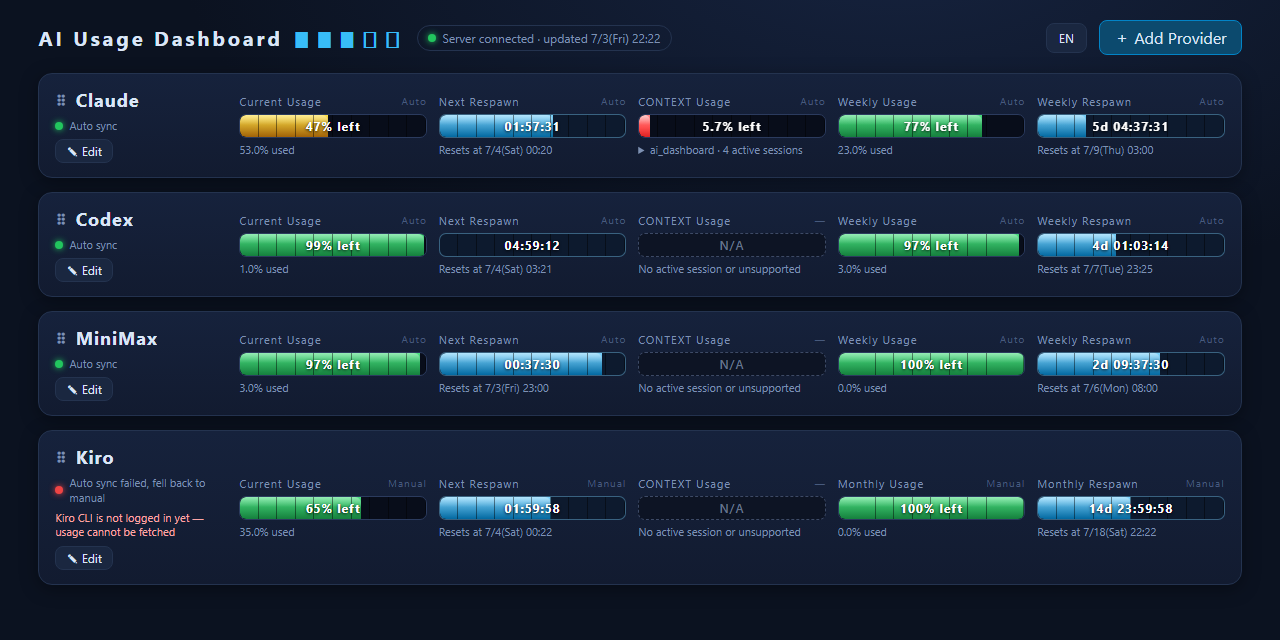
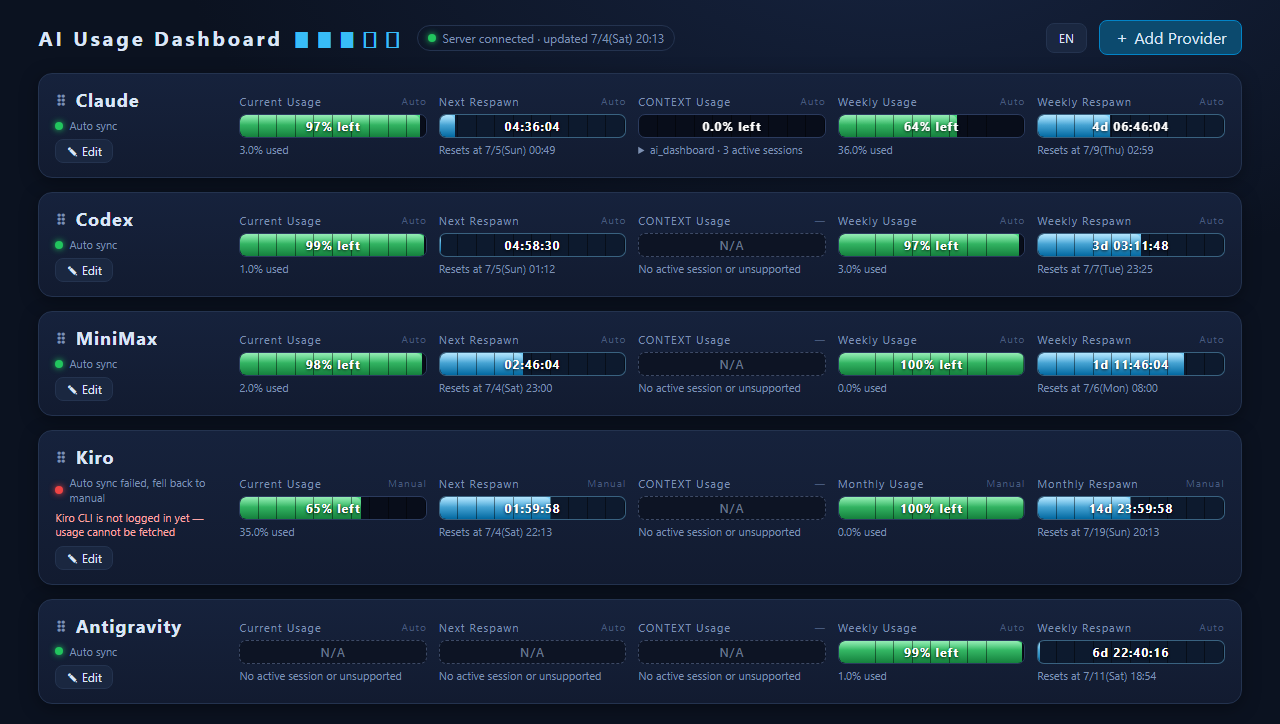
新增Antigravity
借用 Antigravity CLI(agy)自己在本機開的 Connect-RPC 服務取得真實每週配額,
無此服務時列上灰色虛框而非誤導性的手動預設值;更新中英文截圖。

diff --git a/server.js b/server.js
@@ -5,6 +5,7 @@
 // 安全:只綁定 127.0.0.1;token 只在本機使用,絕不傳給前端。
 
 const http = require('http');
+const https = require('https');
 const fs = require('fs');
 const path = require('path');
 const os = require('os');
@@ -36,6 +37,8 @@ const SERR = {
     MINIMAX_UNKNOWN_FORMAT: '已連上但回應格式未知(原始回應已印在伺服器視窗)',
     KIRO_NOT_LOGGED_IN: '尚未使用 Kiro CLI 登入,無法取得',
     KIRO_DETECTED_NOT_IMPLEMENTED: '偵測到 Kiro 憑證,但自動同步尚未實作(請回報以便接線)',
+    ANTIGRAVITY_NOT_RUNNING: '未偵測到執行中的 Antigravity CLI(agy);請在終端機執行 agy 並保持該視窗開啟',
+    ANTIGRAVITY_PROBE_FAILED: '偵測到 agy CLI 執行中,但查詢用量失敗或回應格式不符預期',
     STALE_BACKOFF: '退避中(避免觸發限流),沿用舊資料',
     UNEXPECTED_EXCEPTION: '發生非預期錯誤: {msg}',
   },
@@ -58,6 +61,8 @@ const SERR = {
     MINIMAX_UNKNOWN_FORMAT: 'Connected, but the response format is unknown (raw response printed to the server console)',
     KIRO_NOT_LOGGED_IN: 'Kiro CLI is not logged in yet — usage cannot be fetched',
     KIRO_DETECTED_NOT_IMPLEMENTED: 'Kiro credentials detected, but auto sync is not implemented yet (please report so we can wire it up)',
+    ANTIGRAVITY_NOT_RUNNING: 'No running Antigravity CLI (agy) detected — run `agy` in a terminal and keep it open',
+    ANTIGRAVITY_PROBE_FAILED: 'agy CLI is running, but fetching usage failed or the response did not match expectations',
     STALE_BACKOFF: 'Backing off to avoid rate limits — using cached data',
     UNEXPECTED_EXCEPTION: 'Unexpected error: {msg}',
   },
@@ -416,6 +421,117 @@ async function fetchKiro() {
   return { ok: false, errCode: 'KIRO_DETECTED_NOT_IMPLEMENTED' };
 }
 
+// ---------- Antigravity(Google agentic CLI「agy」;無公開 usage API,借用 CLI 自己的本機 loopback 服務) ----------
+// 2026-07-04 探測過程(細節見 開發計畫.md):agy.exe 執行檔本身是加殼過的封閉二進位、雲端 usage 端點
+// (daily-cloudcode-pa.googleapis.com)的認證憑證存在 Windows 認證管理員裡且是不透明編碼,
+// 兩條路都撞牆。後來在開源專案 steipete/CodexBar(docs/antigravity.md)裡找到:agy CLI 執行期間會在
+// 127.0.0.1 開一個「自己就有 quota 資料」的 Connect-RPC 本機服務,不需要 CSRF token(這點跟
+// Antigravity 桌面 App/IDE 版本不同),已實機驗證此法可行且與 CLI 內 `/model` 畫面數字一致:
+//   POST https://127.0.0.1:<port>/exa.language_server_pb.LanguageServerService/RetrieveUserQuotaSummary
+//   headers: Content-Type: application/json, Connect-Protocol-Version: 1  body: {}
+//   回應:{ response: { groups: [ { displayName, buckets: [{ bucketId, window, remainingFraction, resetTime }] } ] } }
+// 限制:此服務只在 agy CLI 行程存活時才會開著(關閉終端機視窗就沒了),故偵測不到時只能提示
+// 使用者「請先在終端機執行 agy 保持連線」,不會主動幫使用者背著啟動一個 agy 行程(避免意外side effect
+// /行程生命週期管理複雜化,超出這個零依賴小工具的範圍)。目前只在 Windows 實機驗證過;macOS/Linux
+// 的 ps/lsof 分支沿用 CodexBar 文件裡的位置與指令,未實機測試。
+function findAgyListenPorts() {
+  try {
+    if (os.platform() === 'win32') {
+      const tasklistOut = execSync('tasklist /FI "IMAGENAME eq agy.exe" /FO CSV /NH', { encoding: 'utf8', timeout: 3000 });
+      const pids = [...tasklistOut.matchAll(/"agy\.exe","(\d+)"/g)].map(m => m[1]);
+      if (!pids.length) return [];
+      const netstatOut = execSync('netstat -ano -p TCP', { encoding: 'utf8', timeout: 3000 });
+      const ports = new Set();
+      for (const line of netstatOut.split('\n')) {
+        const m = line.match(/^\s*TCP\s+127\.0\.0\.1:(\d+)\s+\S+\s+LISTENING\s+(\d+)\s*$/i);
+        if (m && pids.includes(m[2])) ports.add(m[1]);
+      }
+      return [...ports];
+    }
+    // macOS/Linux:未實機驗證,沿用 CodexBar 文件記載的做法
+    const psOut = execSync('ps -ax -o pid=,command=', { encoding: 'utf8', timeout: 3000 });
+    const pids = psOut.split('\n')
+      .filter(l => /(^|[\\/])agy(\s|$)/.test(l.trim()))
+      .map(l => l.trim().split(/\s+/)[0]);
+    const ports = new Set();
+    for (const pid of pids) {
+      try {
+        const lsofOut = execSync(`lsof -nP -iTCP -sTCP:LISTEN -a -p ${pid}`, { encoding: 'utf8', timeout: 3000 });
+        for (const m of lsofOut.matchAll(/:(\d+)\s+\(LISTEN\)/g)) ports.add(m[1]);
+      } catch { /* 該 pid 查不到就跳過 */ }
+    }
+    return [...ports];
+  } catch { return []; }
+}
+
+// 呼叫本機 agy 的 Connect-RPC 服務;loopback 自簽憑證,只在 127.0.0.1 才允許略過憑證驗證
+function postAgyLocalRpc(port, rpcPath, timeoutMs = 5000) {
+  return new Promise((resolve, reject) => {
+    const body = '{}';
+    const req = https.request({
+      host: '127.0.0.1', port, path: rpcPath, method: 'POST',
+      headers: {
+        'Content-Type': 'application/json',
+        'Connect-Protocol-Version': '1',
+        'Content-Length': Buffer.byteLength(body),
+      },
+      rejectUnauthorized: false,
+      timeout: timeoutMs,
+    }, (res) => {
+      let data = '';
+      res.on('data', c => { data += c; });
+      res.on('end', () => {
+        if (res.statusCode !== 200) { reject(new Error('HTTP ' + res.statusCode)); return; }
+        resolve(data);
+      });
+    });
+    req.on('error', reject);
+    req.on('timeout', () => req.destroy(new Error('timeout')));
+    req.write(body);
+    req.end();
+  });
+}
+
+function normalizeAntigravityQuota(json) {
+  const groups = json && json.response && Array.isArray(json.response.groups) ? json.response.groups : null;
+  if (!groups || !groups.length) return null;
+  const pickBucket = (group) => {
+    const b = group && Array.isArray(group.buckets) ? group.buckets[0] : null;
+    if (!b || num(b.remainingFraction) == null) return null;
+    const windowMinutes = b.window === 'weekly' ? 10080 : (b.window === 'daily' ? 1440 : 300);
+    return { usedPct: Math.round((1 - b.remainingFraction) * 1000) / 10, resetsAt: b.resetTime || null, windowMinutes };
+  };
+  const geminiGroup = groups.find(g => /gemini/i.test(g.displayName || ''));
+  const otherGroup = groups.find(g => g !== geminiGroup) || null;
+  let longterm = pickBucket(geminiGroup);
+  const otherBucket = pickBucket(otherGroup);
+  const extra = [];
+  if (longterm && otherBucket) {
+    extra.push({ label: (otherGroup.displayName || 'Claude/GPT') + ' 每週', ...otherBucket });
+  } else if (!longterm && otherBucket) {
+    longterm = otherBucket;
+  }
+  if (!longterm) return null;
+  return { session: null, longterm, longtermLabel: '每週', extra };
+}
+
+async function fetchAntigravity() {
+  const ports = findAgyListenPorts();
+  if (!ports.length) return { ok: false, errCode: 'ANTIGRAVITY_NOT_RUNNING' };
+  let lastErrCode = 'ANTIGRAVITY_PROBE_FAILED';
+  for (const port of ports) {
+    let raw;
+    try {
+      raw = await postAgyLocalRpc(port, '/exa.language_server_pb.LanguageServerService/RetrieveUserQuotaSummary');
+    } catch { continue; }
+    let json;
+    try { json = JSON.parse(raw); } catch { continue; }
+    const norm = normalizeAntigravityQuota(json);
+    if (norm) return { ok: true, ...norm };
+  }
+  return { ok: false, errCode: lastErrCode };
+}
+
 // ---------- Context 使用率:掃描本機 CLI session 記錄(只讀檔尾,成本極低) ----------
 const ACTIVE_MS = 30 * 60000; // 30 分鐘內有寫入才算活躍 session
 const pad2 = n => String(n).padStart(2, '0');
@@ -562,22 +678,24 @@ const server = http.createServer(async (req, res) => {
 
   if (url === '/api/usage') {
     const lang = reqLang(req);
-    const [claudeRaw, codexRaw, minimaxRaw, kiroRaw] = await Promise.all([
+    const [claudeRaw, codexRaw, minimaxRaw, kiroRaw, antigravityRaw] = await Promise.all([
       cachedFetch('claude', fetchClaude),
       cachedFetch('codex', fetchCodex),
       cachedFetch('minimax', fetchMinimax),
       cachedFetch('kiro', fetchKiro),
+      cachedFetch('antigravity', fetchAntigravity),
     ]);
     // 翻譯結果一律用複本(localizeResult 已 shallow-copy),避免把某次請求的語言寫回共用快取物件
     const claude = localizeResult(claudeRaw, lang);
     const codex = localizeResult(codexRaw, lang);
     const minimax = localizeResult(minimaxRaw, lang);
     const kiro = localizeResult(kiroRaw, lang);
+    const antigravity = localizeResult(antigravityRaw, lang);
     // Context 掃描是本機檔案操作,便宜,每次請求即時計算(不論配額查詢成敗)
     try { claude.context = scanClaudeContext(); } catch { claude.context = []; }
     try { codex.context = scanCodexContext(); } catch { codex.context = []; }
     res.writeHead(200, { 'Content-Type': 'application/json; charset=utf-8', 'Cache-Control': 'no-store' });
-    res.end(JSON.stringify({ time: new Date().toISOString(), providers: { claude, codex, minimax, kiro } }));
+    res.end(JSON.stringify({ time: new Date().toISOString(), providers: { claude, codex, minimax, kiro, antigravity } }));
     return;
   }
 

diff --git a/index.html b/index.html
@@ -472,6 +472,7 @@ const BUILTINS = [
   ['codex', 'Codex', true],
   ['minimax', 'MiniMax', true],
   ['kiro', 'Kiro', true],
+  ['antigravity', 'Antigravity', true],
 ];
 let autoData = {};          // /api/usage 回傳的自動資料(不落地)
 let online = false;
@@ -535,12 +536,19 @@ function effective(p) {
   const sess = { ...p.manual.session, src: 'manual' };
   const lt   = { ...p.manual.longterm, src: 'manual' };
 
-  if (auto && auto.session) {
+  if (auto && auto.session === null) {
+    // 上游明確回報「此提供商沒有 session 級資料」(如 Antigravity 只有週配額,無 5 小時層級)。
+    // 2026-07-04 使用者確認:這種情況不要用手動預設值冒充,改顯示無法讀取(跟 Context 一致),
+    // 即使代價是手動值從此被永久蓋過、無法在這個欄位自行手動追蹤。
+    sess.usedPct = null; sess.resetsAt = null; sess.src = 'auto';
+  } else if (auto && auto.session) {
     if (auto.session.usedPct != null) { sess.usedPct = auto.session.usedPct; sess.src = 'auto'; }
     if (auto.session.resetsAt) { const t = Date.parse(auto.session.resetsAt); if (!isNaN(t)) sess.resetsAt = t; }
     if (auto.session.windowMinutes) sess.windowMin = auto.session.windowMinutes;
   }
-  if (auto && auto.longterm) {
+  if (auto && auto.longterm === null) {
+    lt.usedPct = null; lt.resetsAt = null; lt.src = 'auto';
+  } else if (auto && auto.longterm) {
     if (auto.longterm.usedPct != null) { lt.usedPct = auto.longterm.usedPct; lt.src = 'auto'; }
     if (auto.longterm.resetsAt) { const t = Date.parse(auto.longterm.resetsAt); if (!isNaN(t)) lt.resetsAt = t; }
     if (auto.longterm.windowMinutes) lt.windowMin = auto.longterm.windowMinutes;
@@ -584,6 +592,16 @@ function srcLabel(src) {
 }
 function hpCell(label, usedPct, src) {
   const has = usedPct != null && isFinite(usedPct);
+  // 自動同步但上游明確表示無此資料(effective() 已將 usedPct 設為 null、src 設為 'auto')時,
+  // 顯示跟 Context 一致的灰色虛框「無法讀取」,不邀請使用者編輯(手動值在這個狀態下永遠會被蓋過)
+  if (!has && src === 'auto') {
+    return `
+    <div class="metric">
+      <div class="metric-label"><span>${label}</span><span class="src">${srcLabel(src)}</span></div>
+      <div class="bar na"><span class="bar-text na-text">${t('naText')}</span></div>
+      <div class="sub">${t('naSub')}</div>
+    </div>`;
+  }
   const used = has ? Math.min(100, Math.max(0, usedPct)) : 0;
   const remain = 100 - used;
   return `
@@ -633,6 +651,15 @@ function ctxCell(ctx) {
 
 function cdCell(label, resetsAt, windowMin, src, pid, kind) {
   const has = resetsAt != null && isFinite(resetsAt);
+  // 同 hpCell:自動同步但上游明確表示無此資料時,顯示灰色虛框,不掛 data-cd(不需要倒數)
+  if (!has && src === 'auto') {
+    return `
+    <div class="metric">
+      <div class="metric-label"><span>${label}</span><span class="src">${srcLabel(src)}</span></div>
+      <div class="bar na"><span class="bar-text na-text">${t('naText')}</span></div>
+      <div class="sub">${t('naSub')}</div>
+    </div>`;
+  }
   return `
     <div class="metric">
       <div class="metric-label"><span>${label}</span><span class="src">${srcLabel(src)}</span></div>